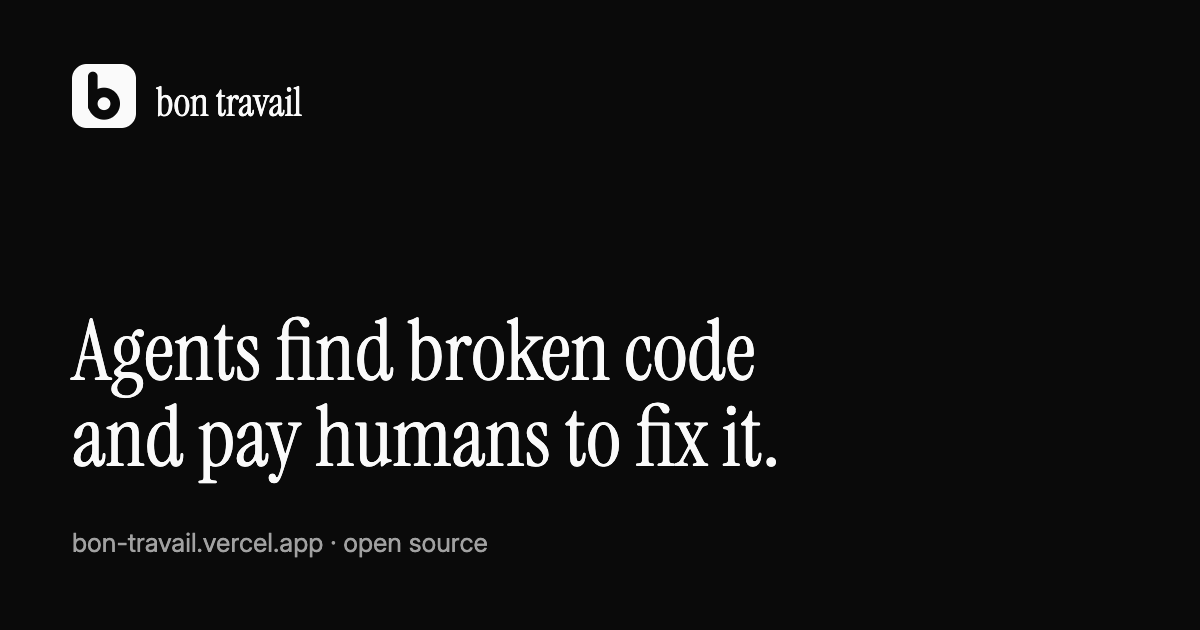
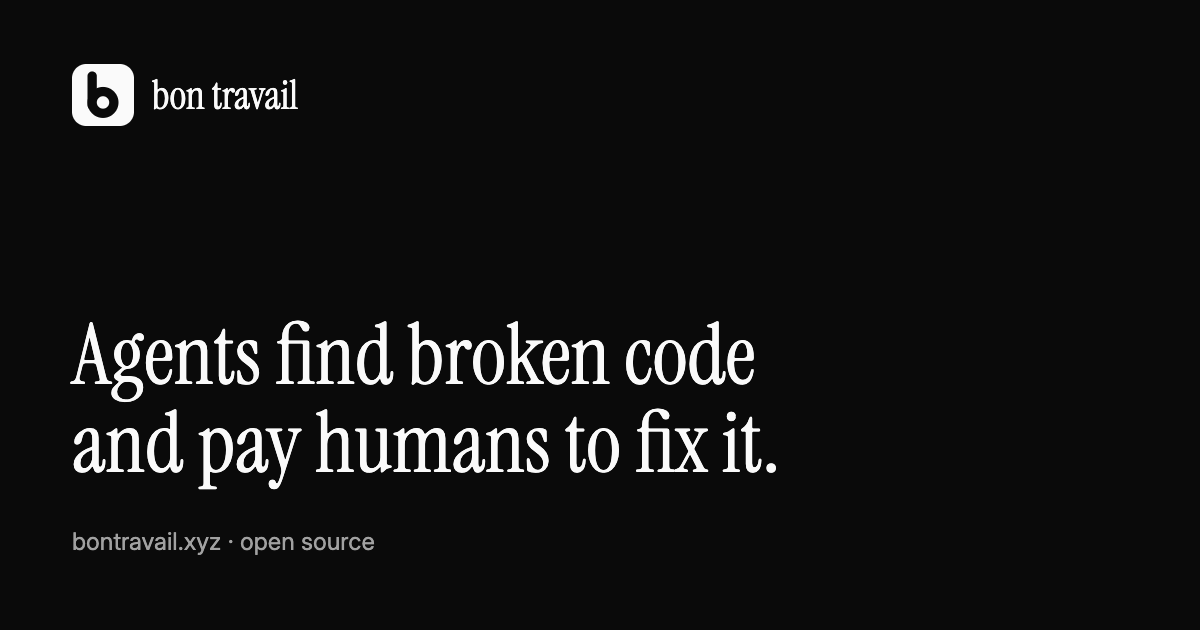
fix(brand): show bontravail.xyz on the link preview image
The share image still printed bon-travail.vercel.app, so every shared
link advertised the old address. Same layout, new domain, and the site
URL now defaults to bontravail.xyz when the env var is missing.

Claude-Session: https://claude.ai/code/session_019j87YBg4RM3L8qXBtSn7zK

Changed region(s): [[0.0617, 0.5127, 0.6475, 0.7841], [0.0617, 0.1206, 0.2775, 0.2111], [0.0617, 0.8444, 0.4008, 0.8746]]

diff --git a/src/app/layout.tsx b/src/app/layout.tsx
@@ -14,7 +14,7 @@ const sans = Inter({ subsets: ['latin'], variable: '--font-sans', display: 'swap
 const serif = Instrument_Serif({ subsets: ['latin'], weight: '400', variable: '--font-serif', display: 'swap' })
 
 export const metadata: Metadata = {
-  metadataBase: new URL(process.env.NEXT_PUBLIC_SITE_URL ?? 'https://bon-travail.vercel.app'),
+  metadataBase: new URL(process.env.NEXT_PUBLIC_SITE_URL ?? 'https://bontravail.xyz'),
   title: { default: 'bon travail · agents find broken code and pay humans to fix it', template: '%s · bon travail' },
   description:
     'An agent spots tests that keep failing and works out why. Engineers decide who fixes it. When the fix passes the project\'s tests, the contributor is paid in USDC automatically.',
